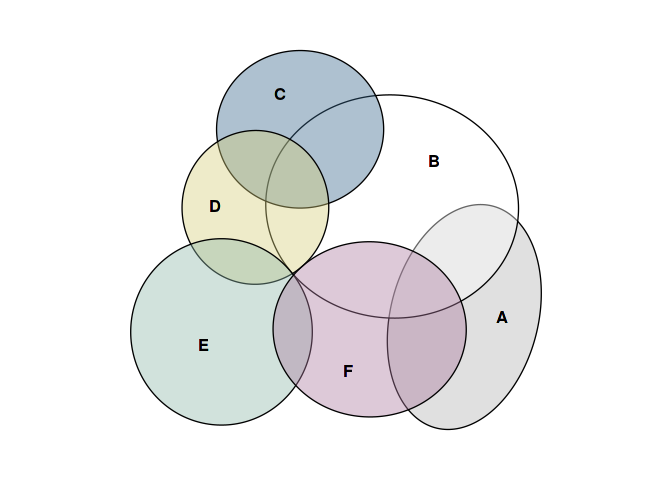
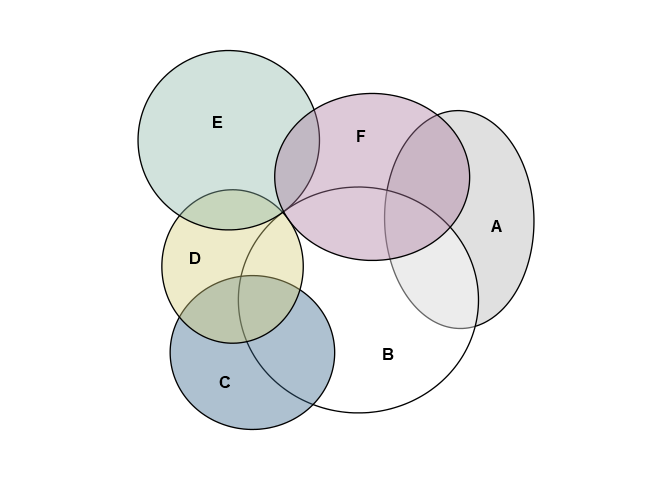
Update readme

diff --git a/README.md b/README.md
@@ -1,16 +1,33 @@
 
 <!-- README.md is generated from README.Rmd. Please edit that file -->
-eulerr
-======
 
-[![Travis-CI Build Status](https://travis-ci.org/jolars/eulerr.svg?branch=master)](https://travis-ci.org/jolars/eulerr) [![AppVeyor Build Status](https://ci.appveyor.com/api/projects/status/github/jolars/eulerr?branch=master&svg=true)](https://ci.appveyor.com/project/jolars/eulerr) [![codecov](https://codecov.io/gh/jolars/eulerr/branch/master/graph/badge.svg)](https://codecov.io/gh/jolars/eulerr) [![CRAN\_Status\_Badge](http://www.r-pkg.org/badges/version/eulerr)](https://cran.r-project.org/package=eulerr) [![Research software impact](http://depsy.org/api/package/cran/eulerr/badge.svg)](http://depsy.org/package/r/eulerr)
+# eulerr
 
-**eulerr** generates area-proportional Euler diagrams that display set relationships (intersections, unions, and disjoints) with circles or ellipses. [Euler diagrams](https://en.wikipedia.org/wiki/Euler_diagram) are Venn diagrams without the requirement that all set interactions be present (whether they are empty or not), which means that, depending on input, **eulerr** sometimes produces Venn diagrams and sometimes not.
+[![Travis-CI Build
+Status](https://travis-ci.org/jolars/eulerr.svg?branch=master)](https://travis-ci.org/jolars/eulerr)
+[![AppVeyor Build
+Status](https://ci.appveyor.com/api/projects/status/github/jolars/eulerr?branch=master&svg=true)](https://ci.appveyor.com/project/jolars/eulerr)
+[![Coverage
+status](https://codecov.io/gh/jolars/eulerr/branch/master/graph/badge.svg)](https://codecov.io/github/jolars/eulerr?branch=master)
+[![CRAN\_Status\_Badge](http://www.r-pkg.org/badges/version/eulerr)](https://cran.r-project.org/package=eulerr)
+[![Research software
+impact](http://depsy.org/api/package/cran/eulerr/badge.svg)](http://depsy.org/package/r/eulerr)
 
-With three or more sets intersecting, exact Euler diagrams are often impossible. For such cases **eulerr** attempts to provide a good approximation by numerically tuning the parameters of the ellipses or circles to minimize the error in the resulting diagram. Residuals and goodness of fit statistics are provided to assess whether the resulting diagram can be trusted.
+**eulerr** generates area-proportional Euler diagrams that display set
+relationships (intersections, unions, and disjoints) with circles or
+ellipses. [Euler diagrams](https://en.wikipedia.org/wiki/Euler_diagram)
+are Venn diagrams without the requirement that all set interactions be
+present (whether they are empty or not), which means that, depending on
+input, **eulerr** sometimes produces Venn diagrams and sometimes not.
 
-Installation
-------------
+With three or more sets intersecting, exact Euler diagrams are often
+impossible. For such cases **eulerr** attempts to provide a good
+approximation by numerically tuning the parameters of the ellipses or
+circles to minimize the error in the resulting diagram. Residuals and
+goodness of fit statistics are provided to assess whether the resulting
+diagram can be trusted.
+
+## Installation
 
 ### CRAN version
 
@@ -26,10 +43,10 @@ devtools::install_github("jolars/eulerr")
 
 ### Shiny app
 
-eulerr is also available as a shiny app hosted at [jolars.co/eulerr](http://jolars.co/eulerr/).
+eulerr is also available as a shiny app hosted at
+[jolars.co/eulerr](http://jolars.co/eulerr/).
 
-Usage
------
+## Usage
 
 ``` r
 library(eulerr)
@@ -41,13 +58,14 @@ fit <- euler(c("A" = 4, "B" = 6, "C" = 3, "D" = 2, "E" = 7, "F" = 3,
              shape = "ellipse")
 ```
 
-We can inspect the goodness-of-fit metrics *diagError* and *stress* for the solution,
+We can inspect the goodness-of-fit metrics *diagError* and *stress* for
+the solution,
 
 ``` r
 fit$stress
-#> [1] 1.208888e-16
+#> [1] 1.166332e-11
 fit$diagError
-#> [1] 3.394124e-09
+#> [1] 8.167421e-07
 ```
 
 and plot it
@@ -56,26 +74,28 @@ and plot it
 plot(fit)
 ```
 
-![](tools/README-plot_method-1.png)
+![](tools/README-plot_method-1.png)<!-- -->
 
-Please see the [introductory vignette](https://CRAN.R-project.org/package=eulerr/vignettes/introduction.pdf) for usage details.
+Please see the [introductory
+vignette](https://CRAN.R-project.org/package=eulerr/vignettes/introduction.pdf)
+for usage details.
 
-License
--------
+## License
 
 eulerr is open source software, licensed under [GPL-3](LICENSE).
 
-Versioning
-----------
+## Versioning
 
 eulerr uses [semantic versioning](http://semver.org).
 
-Code of conduct
----------------
+## Code of conduct
 
-Please note that this project is released with a [Contributor Code of Conduct](CONDUCT.md). By participating in this project you agree to abide by its terms.
+Please note that this project is released with a [Contributor Code of
+Conduct](CONDUCT.md). By participating in this project you agree to
+abide by its terms.
 
-Acknowledgements
-----------------
+## Acknowledgements
 
-eulerr would not be possible without Ben Frederickson's work on [venn.js](http://www.benfrederickson.com) or Leland Wilkinson's [venneuler](https://cran.r-project.org/package=venneuler).
+eulerr would not be possible without Ben Frederickson’s work on
+[venn.js](http://www.benfrederickson.com) or Leland Wilkinson’s
+[venneuler](https://cran.r-project.org/package=venneuler).
